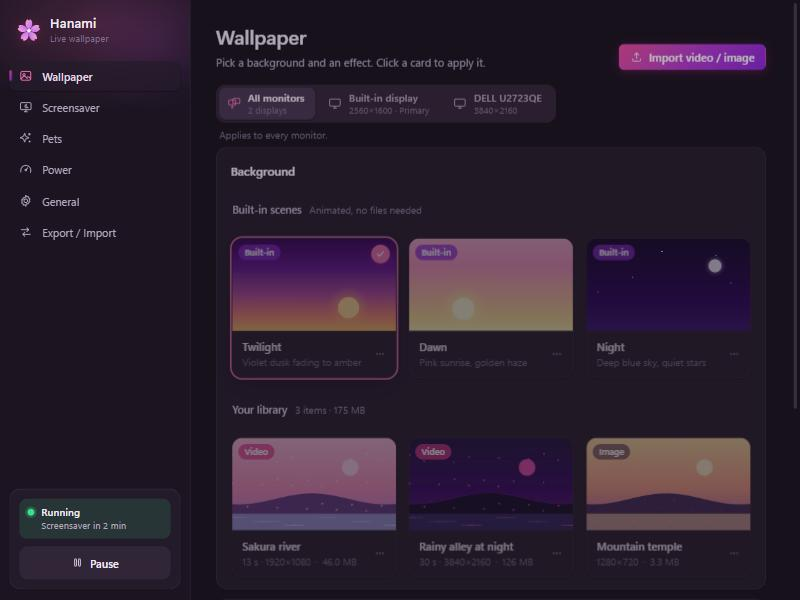
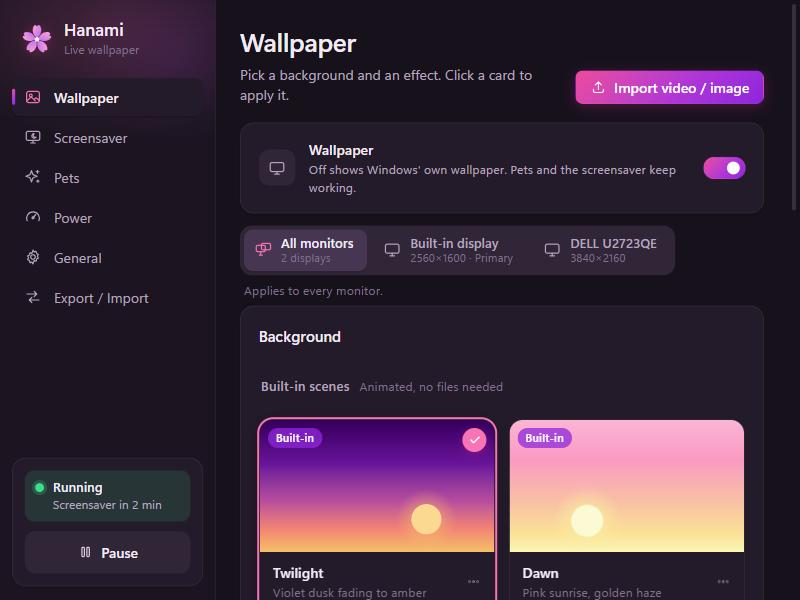
Release 0.2.0: README pets section, screenshot, notices, changelog, version

diff --git a/README.md b/README.md
@@ -42,19 +42,26 @@ install, copies itself there and lives in the tray. See [Install](#install) for 
   (every monitor's desktop, and the screensaver background) can hold a light and a dark wallpaper.
   Hanami switches with Windows' light/dark setting, or you force Light or Dark from Power or the
   tray's Theme menu. Each wallpaper keeps its own look, so only the wallpaper changes.
-- **Desktop pets (Shimeji packs).** Import Shimeji image sets (`shime1.png … shime46.png`, from a
-  folder or `.zip`; also shimeji.org bundles with `manifest.json` and `animation.json`, and Petdex pets) on the Pets tab, or pick them on Petdex or shimeji.org with Browse pets, and put up to 8 on the desktop. Pet packs are not included; find
-  one by searching for "<character> shimeji" and check its licence, which belongs to its author.
-  Hanami uses the packs' images only, with its own behaviour logic (frame meanings come from the pack's own
-  `conf/actions.xml` or a `hanami-pet.json` next to the images, else Shimeji-ee's default numbering): pets walk along the taskbar and the
-  tops of your windows, climb window sides and screen edges, hang from the top of the screen, sit, nap,
-  fall when a window moves away (with a startled hop), come over to your cursor now and then, and can be
-  picked up and thrown or set down: let go gently on a window's title bar, the taskbar, a screen edge or the top
-  of the screen and they sit or hang there for a while. They hop up to windows that block their way, dangle their
-  legs at a window's edge, hop between windows, get shaken off a window you shake, say hello to each other, and
-  like being stroked (rest the cursor on one). Right-click: Stay here / Follow me. They never move or resize your windows, hide while a fullscreen app or the screensaver is up, and freeze
-  when the power rules pause Hanami. Size, activity (calm / normal / lively), "climb windows" and "play together" are on the
-  Pets tab, which also has the Show pets switch; "Hide pets" / "Show pets" in the tray menu and a pet's right-click menu flip that same switch. They are carried by exported packs.
+- **Desktop pets.** Little companions that walk along the taskbar and the tops of your windows, up to 8 at a time. On the Pets tab:
+  - **Browse pets** opens Petdex and shimeji.org inside Hanami (two tabs), and **Get pet** on a pet's page adds it to your library, credited to
+    its artist. You can also press the site's own Download button, on a pet's page or on a list card. The shimeji.org tab hides the sets made for phones.
+  - **Import** takes a `.zip` or a folder, and you can also **drop** photos, videos, pet zips and folders anywhere on the settings window: Hanami sorts them itself.
+  - Formats: **Petdex** pets (a `pet.json` and a sprite sheet), **shimeji.org** bundles (`manifest.json`, `animation.json` and numbered sprites, for computers or phones),
+    and classic **Shimeji-ee** image sets (`shime1.png … shime46.png`, even when a pack's frames differ a little in size). Frame meanings come from the pack's own
+    `conf/actions.xml` or a `hanami-pet.json` next to the images, else Shimeji-ee's default numbering. A few Shimeji-ee packs that name their images
+    (`air.png`, `bounce01.png`) instead of numbering them can't be read yet.
+  - **Pet art is not included.** Every pet belongs to its artist and keeps their licence, so check it before sharing a pack. Hanami shows the credit
+    ("by <artist> · Petdex" or "· shimeji.org") on the Pets tab and carries it in exported packs.
+  - Every pet is drawn about the same height, whatever the size of its art; the Size slider scales them all (50% to 200%).
+- **What pets do.** They climb window sides and screen edges, fall when a window moves away (with a startled hop), come over to your cursor now and then, and can be
+  picked up and thrown or set down: let go gently on a window's title bar, the taskbar, a screen edge or the top of the screen and they sit or hang there for a while.
+  They hop up to windows that block their way, get shaken off a window you shake, say hello to each other, and like being stroked (rest the cursor on one) or clicked.
+  Right-click: Sit / Sleep / Stay here / Follow me / Hide pets. They never move or resize your windows, hide while a fullscreen app or the screensaver is up, and freeze
+  when the power rules pause Hanami. Size, activity (calm / normal / lively), "climb windows" and "play together" are on the Pets tab, which also has the Show pets
+  switch; "Hide pets" / "Show pets" in the tray menu and a pet's right-click menu flip that same switch.
+  - **Petdex pets** run, climb (on their running frames, upright), jump and fall; they wave when clicked, sit on their "waiting" row, sleep and lie down on their
+    "failed" row, and now and then do something from their running, review and turning rows. They never hang from a ceiling, and a pet whose sheet lacks the sitting
+    or sleeping row simply doesn't sit or sleep. Shimeji-ee sets and bundles do whatever their frames allow, ceilings included.
 - **Battery-aware.** Each condition (plugged in, on battery, low battery, Energy Saver, a
   maximized window, a fullscreen app) can be set to run *Full*, *Reduced* (video frozen,
   effects at 30 fps) or *Paused*. By default it pauses on battery, and you can override that
@@ -208,5 +215,8 @@ Hanami is released under the [MIT licence](LICENSE).
 - The bundled clock font [Tilt Warp](https://github.com/googlefonts/Tilt-Fonts) is under the SIL Open Font License (`web/wallpaper/fonts/OFL.txt`).
 - Licences and credits for everything else Hanami includes (.NET, WebView2, Shimeji-ee's frame timings) are in
   [THIRD-PARTY-NOTICES.md](web/THIRD-PARTY-NOTICES.md), which is also built into the exe and shown in Settings → General.
-- Pet packs and wallpapers you import are not part of Hanami: they keep their authors' licences, so check the terms of each pack before sharing it.
+- Pet packs and wallpapers you import or download are not part of Hanami: they keep their authors' licences, so check the terms of each pack before sharing it.
+  Hanami only downloads a pet when you press Get pet or a site's own Download button.
+- **Credits:** pets come from the community on [Petdex](https://petdex.dev) (its code is MIT, [github.com/crafter-station/petdex](https://github.com/crafter-station/petdex)) and
+  [shimeji.org](https://shimeji.org), and from the original [Shimeji-ee](https://github.com/chaoskagami/shimeji-ee). Thank you to everyone who draws, packs and shares them.
 - Hanami reads Shimeji image sets but contains no code from Shimeji-ee; its frame table is a record of that project's default frame numbering.

diff --git a/CHANGELOG.md b/CHANGELOG.md
@@ -4,6 +4,30 @@ One section per version, newest first. The section for a version is used as that
 for people using Hanami, not for developers. The heading is just the version number (`## 0.1.0`, `## 0.2.0-beta.1`), and a tag
 without a matching section stops the release. Versions with a `-` (release candidates, betas) are prereleases.
 
+## 0.2.0
+
+**Pets get a lot bigger: browse and add them from Petdex and shimeji.org without leaving Hanami.**
+
+- **Browse pets:** a new button on the Pets tab opens one window with two tabs, **Petdex** and **shimeji.org**, showing the real websites. On a pet's page, **Get pet** adds it to your library; the sites' own Download buttons (on a pet's page or on a list card) add it too instead of saving a file. The shimeji.org tab hides the sets made for phones. Each pet keeps its artist's name, shown on the Pets tab as "by <artist> · Petdex" or "· shimeji.org". Browsing happens in a locked-down window that can't see your settings or library.
+- **Petdex pets:** import a Petdex zip or folder (or get it with Browse). They run both ways with real right-facing frames, climb window sides, jump, fall and wave when you click them. Their "waiting" row is used for sitting, the "failed" row for sleeping and lying down, and the running, review and turning rows give them things to do while standing.
+- **shimeji.org bundles** (the zips with `manifest.json` and `animation.json`, made for computers or phones) import too, with real left and right walking, wall and ceiling climbing, sitting and lying down where the bundle has them.
+- **Shimeji packs import more often:** a pack whose frames differ a few pixels in size is now accepted.
+- **Drag and drop:** drop photos, videos, pet zips or folders anywhere on the settings window and Hanami sorts them: wallpapers go to the library, pets to the Pets tab. Only one import runs at a time.
+- **Pets are one size:** every pet now stands about the same height whatever the size of its art, and the Size slider scales them all. Packs with big art are smaller than before.
+- **Hide pets works properly:** "Hide pets" in the tray menu or a pet's right-click menu now simply flips the Show pets switch, so you can always bring them back from the Pets tab or the tray.
+- **Shaking a window:** a Petdex pet shaken off a window can be shaken off again straight away.
+- **Tidier Pets tab:** the header has a Browse pets button and one Import button (from a zip or from a folder), like the Wallpaper tab.
+
+**Known gaps:**
+
+- A few Shimeji-ee packs that name their images (`air.png`, `bounce01.png`) instead of numbering them (`shime2.png`) can't be read yet; Hanami says so when you try. Roughly 2 of 14 shimeji.org uploads we tried.
+- Pets added from a shimeji.org list card have no artist name (the list doesn't show it); the ones added from a pet's page do.
+- Importing a large bundle can take several seconds with no progress shown.
+- If a site asks you to prove you're human before a download, do that in the window; Get pet waits for it.
+- The sign-in pages of Petdex and shimeji.org aren't needed and haven't been tried.
+
+**Credits:** the pets come from the Petdex and shimeji.org communities and from the original Shimeji-ee, and belong to their artists. Hanami never bundles them. See the README and Settings → General → Open-source notices.
+
 ## 0.1.3
 
 - **A switch at the top of each feature tab:** the Wallpaper, Screensaver and Pets tabs each open with an on/off row. The screensaver's switch moved there from Power, and **Show pets** moved up from Behaviour.

diff --git a/docs/PLAN.md b/docs/PLAN.md
@@ -190,12 +190,23 @@ Notes: 558 tests (the bundle tests reworked for the new lookup and the converted
 
 ### Phase P6 — Docs, real checks, release `0.2.0`
 
-- [ ] P6.1 **README:** pets section rewritten (browsing Petdex, Shimeji import, drag and drop, what Petdex pets can and can't do, credit to submitters). Retake `docs/img/settings.jpg` on the mock bridge (moved from A4.3): built-in scenes, procedural samples and the mock's fake pets only. CONTRACTS checked end to end.
-- [ ] P6.2 **The user's checks:** add three or four anime pets with "Get pet", drop a few files of each kind, import a real Shimeji pack (this was A1.2), and on the second laptop move pets across monitors.
-- [ ] P6.3 `<Version>` 0.2.0 and `CHANGELOG.md`. Commit. With the user's yes: merge to `main`, push.
+- [x] P6.1 **README:** pets section rewritten (browsing Petdex, Shimeji import, drag and drop, what Petdex pets can and can't do, credit to submitters). Retake `docs/img/settings.jpg` on the mock bridge (moved from A4.3): built-in scenes, procedural samples and the mock's fake pets only. CONTRACTS checked end to end.
+- [~] P6.2 **The user's checks:** add three or four anime pets with "Get pet", drop a few files of each kind, import a real Shimeji pack (this was A1.2), and on the second laptop move pets across monitors.
+- [x] P6.3 `<Version>` 0.2.0 and `CHANGELOG.md`. Commit. With the user's yes: merge to `main`, push.
 - [ ] P6.4 **With the user's yes for this tag:** tag `v0.2.0`, push it, watch the run, check the download. Every 0.1.x copy on Stable is offered it, so update one of the user's copies from the tray and confirm settings, library and pets are kept.
 
-Notes:
+Notes: P6.1 and P6.3 done on 25 Nov 2026 (README pets section rewritten, `docs/img/settings.jpg` retaken on the mock bridge with built-in scenes only, THIRD-PARTY-NOTICES gets Petdex and shimeji.org, version 0.2.0, CHANGELOG with known gaps and credits). The user agreed to release with the second-laptop checks still open.
+
+**Still to test on the second laptop (the user's record, not done for 0.2.0):**
+- Move pets across monitors, including monitors with different scaling, with Petdex, bundle and Shimeji pets, and check the Size slider and the pets' height on each.
+- Wallpaper off on two monitors (Windows' wallpaper on both, no leftover WebView2), a monitor replug not bringing it back, pets still freezing on battery with the wallpaper off.
+- The screensaver's "Same as desktop" with the wallpaper off; the real desktop picture with the wallpaper off.
+- A 100% display (the dev laptop is 125%): pet heights and the Size slider.
+- Pets with real Petdex art: sleeping, sitting and the fidgets (only synthetic sheets and one real walk check so far), and climbing, ceiling hanging, drag and throw with bundle pets.
+- Browse pets with no network (the window should say it can't reach the site), and the sites' sign-in pages (never tried).
+- A real Shimeji pack through drag and drop; updating a copy from the tray from 0.1.x to 0.2.0 and checking settings, library and pets survive (P6.4).
+
+
 
 ## Round 10 — settings tabs reorganised
 

diff --git a/web/THIRD-PARTY-NOTICES.md b/web/THIRD-PARTY-NOTICES.md
@@ -5,6 +5,13 @@ built into `Hanami.exe` and shown in Settings → General → Open-source notice
 
 Wallpapers and pet packs you import are not part of Hanami and keep their authors' licences.
 
+## Petdex and shimeji.org (pets you choose to download)
+
+Hanami can open [petdex.dev](https://petdex.dev) and [shimeji.org](https://shimeji.org) in its Browse pets window and, when you press Get pet or
+the site's own Download button, add a pet from them to your library. Nothing from either site is bundled in `Hanami.exe`. Petdex's own
+code is MIT licensed ([github.com/crafter-station/petdex](https://github.com/crafter-station/petdex)); the pets on both sites belong to the people who made and
+uploaded them, and a pet's page or pack says what you may do with it. Hanami keeps the artist's name with the pack and shows it on the Pets tab.
+
 ## Tilt Warp (clock font)
 
 Bundled as `web/wallpaper/fonts/TiltWarp.ttf`, the default screensaver clock font.
